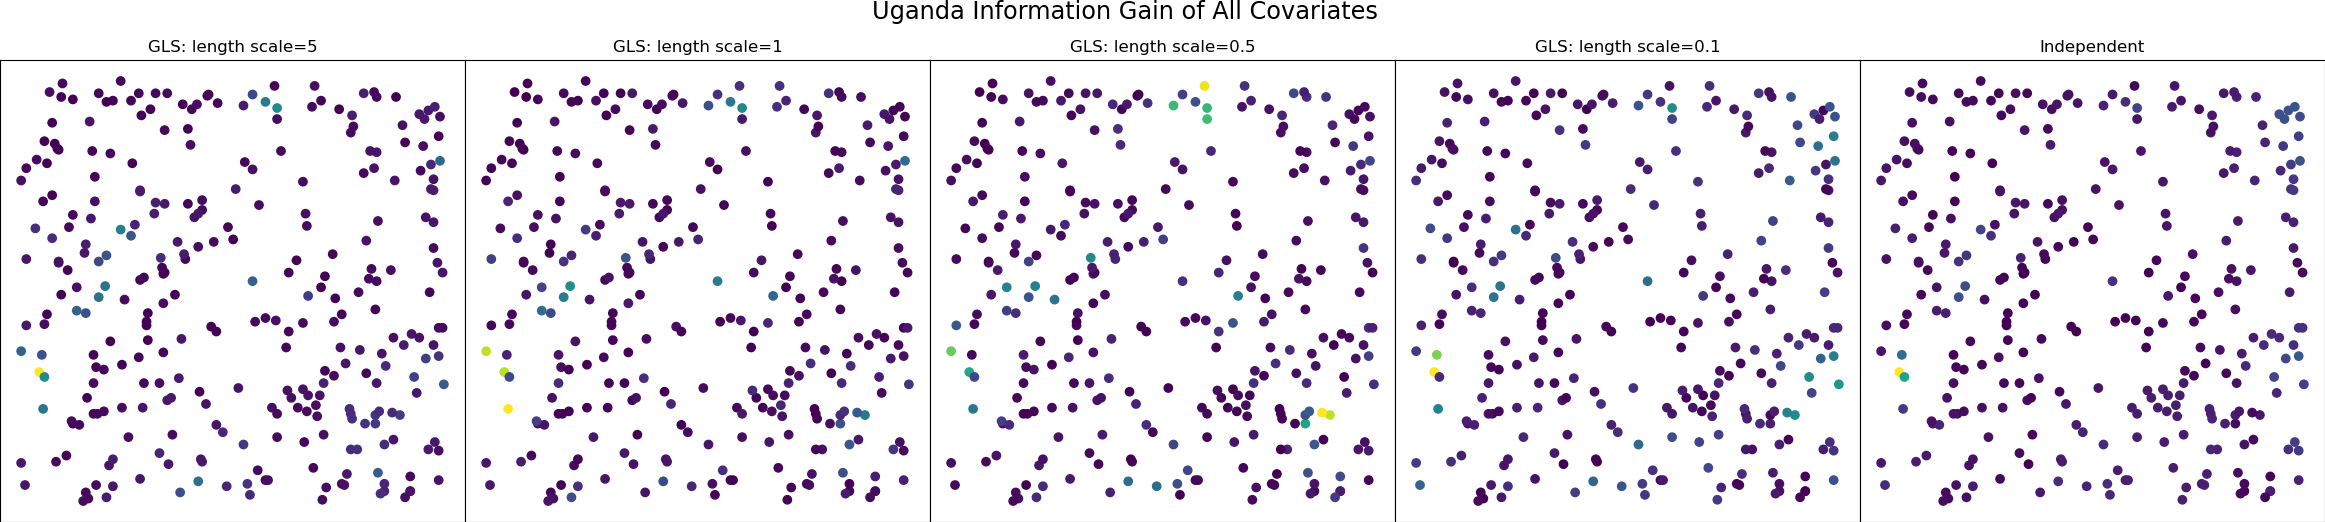
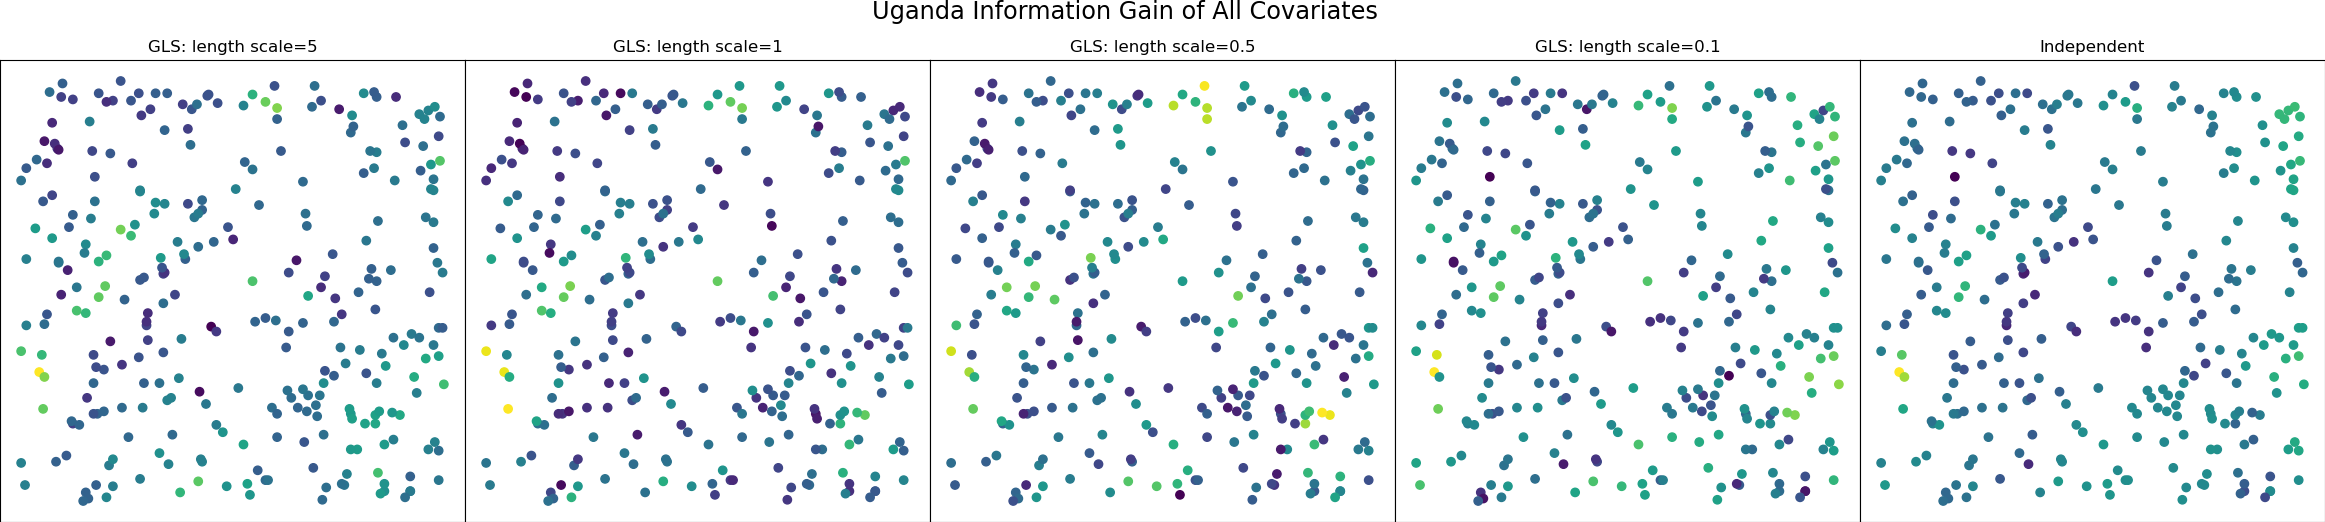
scaled and with greyscale raster background

diff --git a/information_matrix.py b/information_matrix.py
@@ -1,9 +1,8 @@
 import pandas as pd
+import rasterio
 import numpy as np
 from scipy.spatial import distance_matrix
 import matplotlib.pyplot as plt
-import matplotlib.cbook as cbook
-
 # Returns a raster of Malaria prevalence using a linear function on the covariates plus a random field function
 if __name__ == "__main__":
     # Load in Malaria data
@@ -61,22 +60,24 @@ if __name__ == "__main__":
         information_gain_scaled = np.float_power(information_gain_scaled, .25)
 
         # Plot information gain with lengthscale
+        # Raster
+        # with rasterio.open("Uganda Covariate Rasters/uganda_Rainfall_CHIRPS_2km_2018.tif") as src:
+        #     image = src.read(1)  # Read the first band
+        #     extent = (src.bounds.left, src.bounds.right, src.bounds.bottom, src.bounds.top)
+        # axis[i].imshow(image, cmap='gray', extent=extent)
         # Scatter
-        axis[i].scatter(x, y, c=information_gain_scaled, cmap="viridis", zorder=1)
+        # axis[i].scatter(x, y, c=information_gain_scaled, cmap="viridis", marker="$O$")
+        axis[i].scatter(x, y, c=information_gain_scaled, cmap="viridis")
         axis[i].get_xaxis().set_visible(False)
         axis[i].get_yaxis().set_visible(False)
         figure.subplots_adjust(wspace=0)
         if lengthscales[i] == 0:
             axis[i].set_title("Independent")
-            # Raster
-            # with cbook.get_sample_data("Uganda Covariate Rasters/uganda_Rainfall_CHIRPS_2km_2018.tif") as tiffile:
-            #     raster = tiffile.read()
-            # axis[i].imshow(raster, cmap="viridis")
         else:
             axis[i].set_title("GLS: length scale=" + str(lengthscales[i]))  
-    figure.suptitle("Uganda Information Gain of Rain Covariates", fontsize="xx-large")
+    figure.suptitle("Uganda Information Gain of All Covariates", fontsize="xx-large")
 
-    plt.savefig("Uganda Malaria Data/mock_malaria_cases_uganda_rain_information_matrix_2km_2018.png", bbox_inches="tight", pad_inches=0) 
+    plt.savefig("Uganda Malaria Data/mock_malaria_cases_uganda_all_information_matrix_2km_2018.png", bbox_inches="tight", pad_inches=0) 
     plt.show()
 
 
